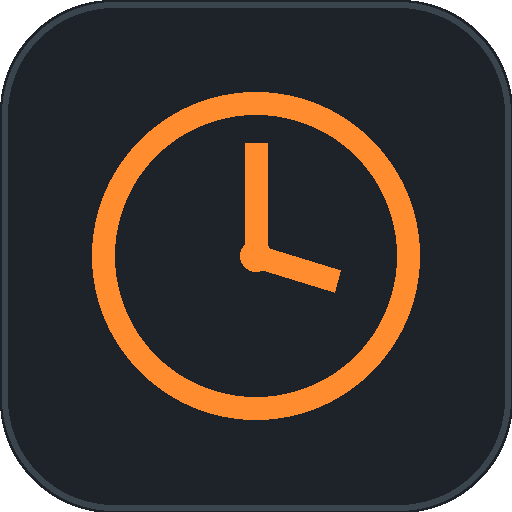
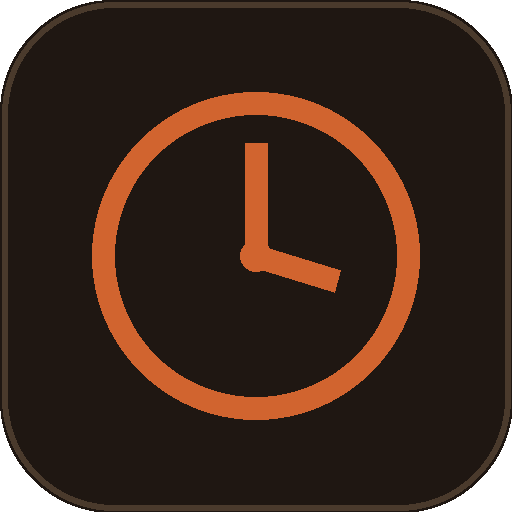
Add files via upload

diff --git a/index.html b/index.html
@@ -6,7 +6,7 @@
 <title>הפסקות טבחים</title>
 
 <link rel="manifest" href="./manifest.json">
-<meta name="theme-color" content="#1d2328">
+<meta name="theme-color" content="#2a2019">
 
 <meta name="apple-mobile-web-app-capable" content="yes">
 <meta name="apple-mobile-web-app-status-bar-style" content="black-translucent">
@@ -16,17 +16,17 @@
 <link rel="icon" type="image/png" sizes="192x192" href="./icon-192.png">
 <link rel="icon" type="image/png" sizes="512x512" href="./icon-512.png">
 <style>
-  @import url('https://fonts.googleapis.com/css2?family=Rubik:wght@400;600;800&family=Oswald:wght@500;600;700&display=swap');
+  @import url('https://fonts.googleapis.com/css2?family=Rubik:wght@400;600;800&family=Frank+Ruhl+Libre:wght@500;700&family=Oswald:wght@500;600;700&display=swap');
 
   :root{
-    --steel-0:#14181c; --steel-1:#1d2328; --steel-2:#262e34; --steel-3:#2f383f;
-    --line:#3a444c; --amber:#ff8c2f; --amber-dim:#8a5322;
-    --text:#eef1f3; --text-dim:#8b969e; --danger:#ff3b30; --danger-dim:#7a2622;
+    --steel-0:#1f1712; --steel-1:#2a2019; --steel-2:#34281f; --steel-3:#3e2f23;
+    --line:#4a3a2c; --amber:#d1642f; --amber-dim:#7a3d20;
+    --text:#f3ece0; --text-dim:#b8a58f; --danger:#c0392b; --danger-dim:#6b2318;
   }
   *{box-sizing:border-box;}
   html,body{
     margin:0; min-height:100%;
-    background:radial-gradient(circle at 50% -10%, #232a30 0%, var(--steel-0) 55%);
+    background:radial-gradient(circle at 50% -10%, #2f2418 0%, var(--steel-0) 55%);
     color:var(--text); font-family:'Rubik',sans-serif;
     -webkit-tap-highlight-color:transparent;
   }
@@ -34,7 +34,8 @@
   .app{ width:100%; max-width:460px; }
   .header{ text-align:center; margin-bottom:20px; }
   .eyebrow{ font-family:'Oswald',sans-serif; letter-spacing:.14em; font-size:12px; color:var(--text-dim); text-transform:uppercase; }
-  h1{ font-family:'Oswald',sans-serif; font-weight:700; font-size:26px; margin:4px 0 0; }
+  h1{ font-family:'Frank Ruhl Libre',serif; font-weight:700; font-size:27px; margin:4px 0 0; }
+  .restaurant-tag{ font-size:11px; color:var(--amber); letter-spacing:.04em; margin-top:4px; }
 
   .sync-tag{
     text-align:center; font-size:11px; color:var(--text-dim); margin-bottom:14px;
@@ -107,7 +108,7 @@
   .card.is-done .card-sub{ color:var(--danger); }
 
   .start-btn{
-    flex:none; background:var(--amber); color:#1a1005; border:none; font-weight:600;
+    flex:none; background:var(--amber); color:#2a1509; border:none; font-weight:600;
     border-radius:10px; padding:9px 14px; font-size:13px; cursor:pointer;
   }
   .start-btn:active{ transform:scale(.96); }
@@ -126,7 +127,7 @@
     font-size:11px; color:var(--text-dim); align-self:center;
     border:1px solid var(--line); border-radius:10px; padding:8px 10px;
   }
-  @keyframes pulseBtn{ 0%,100%{ box-shadow:0 0 0 0 rgba(255,59,48,.5); } 50%{ box-shadow:0 0 0 10px rgba(255,59,48,0); } }
+  @keyframes pulseBtn{ 0%,100%{ box-shadow:0 0 0 0 rgba(192,57,43,.5); } 50%{ box-shadow:0 0 0 10px rgba(192,57,43,0); } }
 
   .duration-row{ display:flex; gap:10px; margin-top:12px; padding-top:12px; border-top:1px solid var(--line); }
   .duration-btn{ flex:1; background:var(--steel-2); border:1px solid var(--line); border-radius:12px; padding:12px 6px; color:var(--text); cursor:pointer; text-align:center; }
@@ -151,6 +152,7 @@
   <div class="header">
     <div class="eyebrow">ניהול מטבח</div>
     <h1>הפסקות טבחים</h1>
+    <div class="restaurant-tag">רוברטה וינצ'י · כרכור</div>
   </div>
 
   <div class="sync-tag"><span class="sync-dot" id="syncDot"></span><span id="syncText">מתחבר...</span></div>

diff --git a/bank.html b/bank.html
@@ -6,22 +6,22 @@
 <title>ניהול בנק טבחים</title>
 
 <link rel="manifest" href="./manifest.json">
-<meta name="theme-color" content="#1d2328">
+<meta name="theme-color" content="#2a2019">
 <meta name="apple-mobile-web-app-capable" content="yes">
 <link rel="apple-touch-icon" href="./icon-192.png">
 <link rel="icon" type="image/png" sizes="192x192" href="./icon-192.png">
 <link rel="icon" type="image/png" sizes="512x512" href="./icon-512.png">
 <style>
-  @import url('https://fonts.googleapis.com/css2?family=Rubik:wght@400;600;800&family=Oswald:wght@500;600;700&display=swap');
+  @import url('https://fonts.googleapis.com/css2?family=Rubik:wght@400;600;800&family=Frank+Ruhl+Libre:wght@500;700&family=Oswald:wght@500;600;700&display=swap');
   :root{
-    --steel-0:#14181c; --steel-1:#1d2328; --steel-2:#262e34;
-    --line:#3a444c; --amber:#ff8c2f; --amber-dim:#8a5322;
-    --text:#eef1f3; --text-dim:#8b969e; --danger:#ff3b30;
+    --steel-0:#1f1712; --steel-1:#2a2019; --steel-2:#34281f;
+    --line:#4a3a2c; --amber:#d1642f; --amber-dim:#7a3d20;
+    --text:#f3ece0; --text-dim:#b8a58f; --danger:#c0392b;
   }
   *{box-sizing:border-box;}
   html,body{
     margin:0; min-height:100%;
-    background:radial-gradient(circle at 50% -10%, #232a30 0%, var(--steel-0) 55%);
+    background:radial-gradient(circle at 50% -10%, #2f2418 0%, var(--steel-0) 55%);
     color:var(--text); font-family:'Rubik',sans-serif;
     -webkit-tap-highlight-color:transparent;
   }
@@ -29,7 +29,7 @@
   .app{ width:100%; max-width:460px; }
   .header{ text-align:center; margin-bottom:20px; }
   .eyebrow{ font-family:'Oswald',sans-serif; letter-spacing:.14em; font-size:12px; color:var(--text-dim); text-transform:uppercase; }
-  h1{ font-family:'Oswald',sans-serif; font-weight:700; font-size:24px; margin:4px 0 0; }
+  h1{ font-family:'Frank Ruhl Libre',serif; font-weight:700; font-size:25px; margin:4px 0 0; }
 
   .back-btn{
     display:block; text-align:center; margin-bottom:18px;
@@ -54,7 +54,7 @@
   .add-row input:focus{ border-color:var(--amber-dim); }
   .add-row input::placeholder{ color:var(--text-dim); }
   .add-row button{
-    flex:none; background:var(--amber); color:#1a1005; border:none; border-radius:12px;
+    flex:none; background:var(--amber); color:#2a1509; border:none; border-radius:12px;
     padding:0 18px; font-size:20px; font-weight:700; cursor:pointer;
   }
   .add-row button:active{ transform:scale(.95); }
@@ -79,7 +79,7 @@
   .bank-avatar .cam-badge{
     position:absolute; bottom:-2px; left:-2px;
     width:18px; height:18px; border-radius:50%;
-    background:var(--amber); color:#1a1005;
+    background:var(--amber); color:#2a1509;
     display:flex; align-items:center; justify-content:center;
     font-size:10px; border:2px solid var(--steel-0);
   }
@@ -111,6 +111,7 @@
   <div class="header">
     <div class="eyebrow">ניהול מטבח</div>
     <h1>בנק טבחים</h1>
+    <div style="font-size:11px; color:var(--amber); margin-top:4px;">רוברטה וינצ'י · כרכור</div>
   </div>
 
   <a class="back-btn" href="./index.html">← חזרה למסך הראשי</a>

diff --git a/chef.html b/chef.html
@@ -5,7 +5,7 @@
 <meta name="viewport" content="width=device-width, initial-scale=1.0, viewport-fit=cover">
 <title>ההפסקה שלי</title>
 
-<meta name="theme-color" content="#1d2328">
+<meta name="theme-color" content="#2a2019">
 <meta name="apple-mobile-web-app-capable" content="yes">
 <meta name="apple-mobile-web-app-status-bar-style" content="black-translucent">
 <meta name="apple-mobile-web-app-title" content="ההפסקה שלי">
@@ -13,16 +13,16 @@
 <link rel="icon" type="image/png" sizes="192x192" href="./icon-192.png">
 <link rel="icon" type="image/png" sizes="512x512" href="./icon-512.png">
 <style>
-  @import url('https://fonts.googleapis.com/css2?family=Rubik:wght@400;600;800&family=Oswald:wght@500;600;700&display=swap');
+  @import url('https://fonts.googleapis.com/css2?family=Rubik:wght@400;600;800&family=Frank+Ruhl+Libre:wght@500;700&family=Oswald:wght@500;600;700&display=swap');
   :root{
-    --steel-0:#14181c; --steel-1:#1d2328; --steel-2:#262e34;
-    --line:#3a444c; --amber:#ff8c2f; --amber-dim:#8a5322;
-    --text:#eef1f3; --text-dim:#8b969e; --danger:#ff3b30;
+    --steel-0:#1f1712; --steel-1:#2a2019; --steel-2:#34281f;
+    --line:#4a3a2c; --amber:#d1642f; --amber-dim:#7a3d20;
+    --text:#f3ece0; --text-dim:#b8a58f; --danger:#c0392b;
   }
   *{box-sizing:border-box;}
   html,body{
     margin:0; min-height:100%;
-    background:radial-gradient(circle at 50% -10%, #232a30 0%, var(--steel-0) 55%);
+    background:radial-gradient(circle at 50% -10%, #2f2418 0%, var(--steel-0) 55%);
     color:var(--text); font-family:'Rubik',sans-serif;
     -webkit-tap-highlight-color:transparent;
   }
@@ -30,6 +30,7 @@
     display:flex; flex-direction:column; align-items:center; justify-content:center;
     min-height:100vh; padding:24px 16px;
   }
+  .restaurant-tag{ font-size:12px; color:var(--amber); letter-spacing:.04em; margin-bottom:22px; }
   .avatar{
     width:110px; height:110px; border-radius:50%;
     background:var(--steel-2); border:1px solid var(--line);
@@ -39,7 +40,7 @@
   }
   .avatar img{ width:100%; height:100%; object-fit:cover; display:block; }
 
-  .name{ font-family:'Oswald',sans-serif; font-size:24px; font-weight:700; margin-bottom:30px; }
+  .name{ font-family:'Frank Ruhl Libre',serif; font-size:25px; font-weight:700; margin-bottom:30px; }
 
   .ring-wrap{ position:relative; width:260px; height:260px; margin-bottom:24px; }
   svg{ transform:rotate(-90deg); }
@@ -82,6 +83,7 @@
 <div id="notFoundBox" class="idle-box hidden">הטבח הזה לא נמצא בבנק. יש לבדוק את הקישור עם המנהל.</div>
 
 <div id="content" class="hidden">
+  <div class="restaurant-tag">רוברטה וינצ'י · כרכור</div>
   <div class="avatar" id="avatar"></div>
   <div class="name" id="chefName"></div>
 

diff --git a/history.html b/history.html
@@ -6,17 +6,17 @@
 <title>היסטוריית הפסקות</title>
 
 <link rel="manifest" href="./manifest.json">
-<meta name="theme-color" content="#1d2328">
+<meta name="theme-color" content="#2a2019">
 <meta name="apple-mobile-web-app-capable" content="yes">
 <link rel="apple-touch-icon" href="./icon-192.png">
 <link rel="icon" type="image/png" sizes="192x192" href="./icon-192.png">
 <link rel="icon" type="image/png" sizes="512x512" href="./icon-512.png">
 <style>
-  @import url('https://fonts.googleapis.com/css2?family=Rubik:wght@400;600;800&family=Oswald:wght@500;600;700&display=swap');
+  @import url('https://fonts.googleapis.com/css2?family=Rubik:wght@400;600;800&family=Frank+Ruhl+Libre:wght@500;700&family=Oswald:wght@500;600;700&display=swap');
   :root{
-    --steel-0:#14181c; --steel-1:#1d2328; --steel-2:#262e34;
-    --line:#3a444c; --amber:#ff8c2f; --amber-dim:#8a5322;
-    --text:#eef1f3; --text-dim:#8b969e; --danger:#ff3b30;
+    --steel-0:#1f1712; --steel-1:#2a2019; --steel-2:#34281f;
+    --line:#4a3a2c; --amber:#d1642f; --amber-dim:#7a3d20;
+    --text:#f3ece0; --text-dim:#b8a58f; --danger:#c0392b;
   }
   *{box-sizing:border-box;}
   html,body{
@@ -53,7 +53,7 @@
     overflow:hidden;
   }
   .profile-avatar img{ width:100%; height:100%; object-fit:cover; display:block; }
-  .profile-name{ font-family:'Oswald',sans-serif; font-size:20px; font-weight:700; }
+  .profile-name{ font-family:'Frank Ruhl Libre',serif; font-size:21px; font-weight:700; }
   .profile-sub{ font-size:12px; color:var(--text-dim); margin-top:2px; }
 
   .summary-row{ display:flex; gap:10px; margin-bottom:20px; }